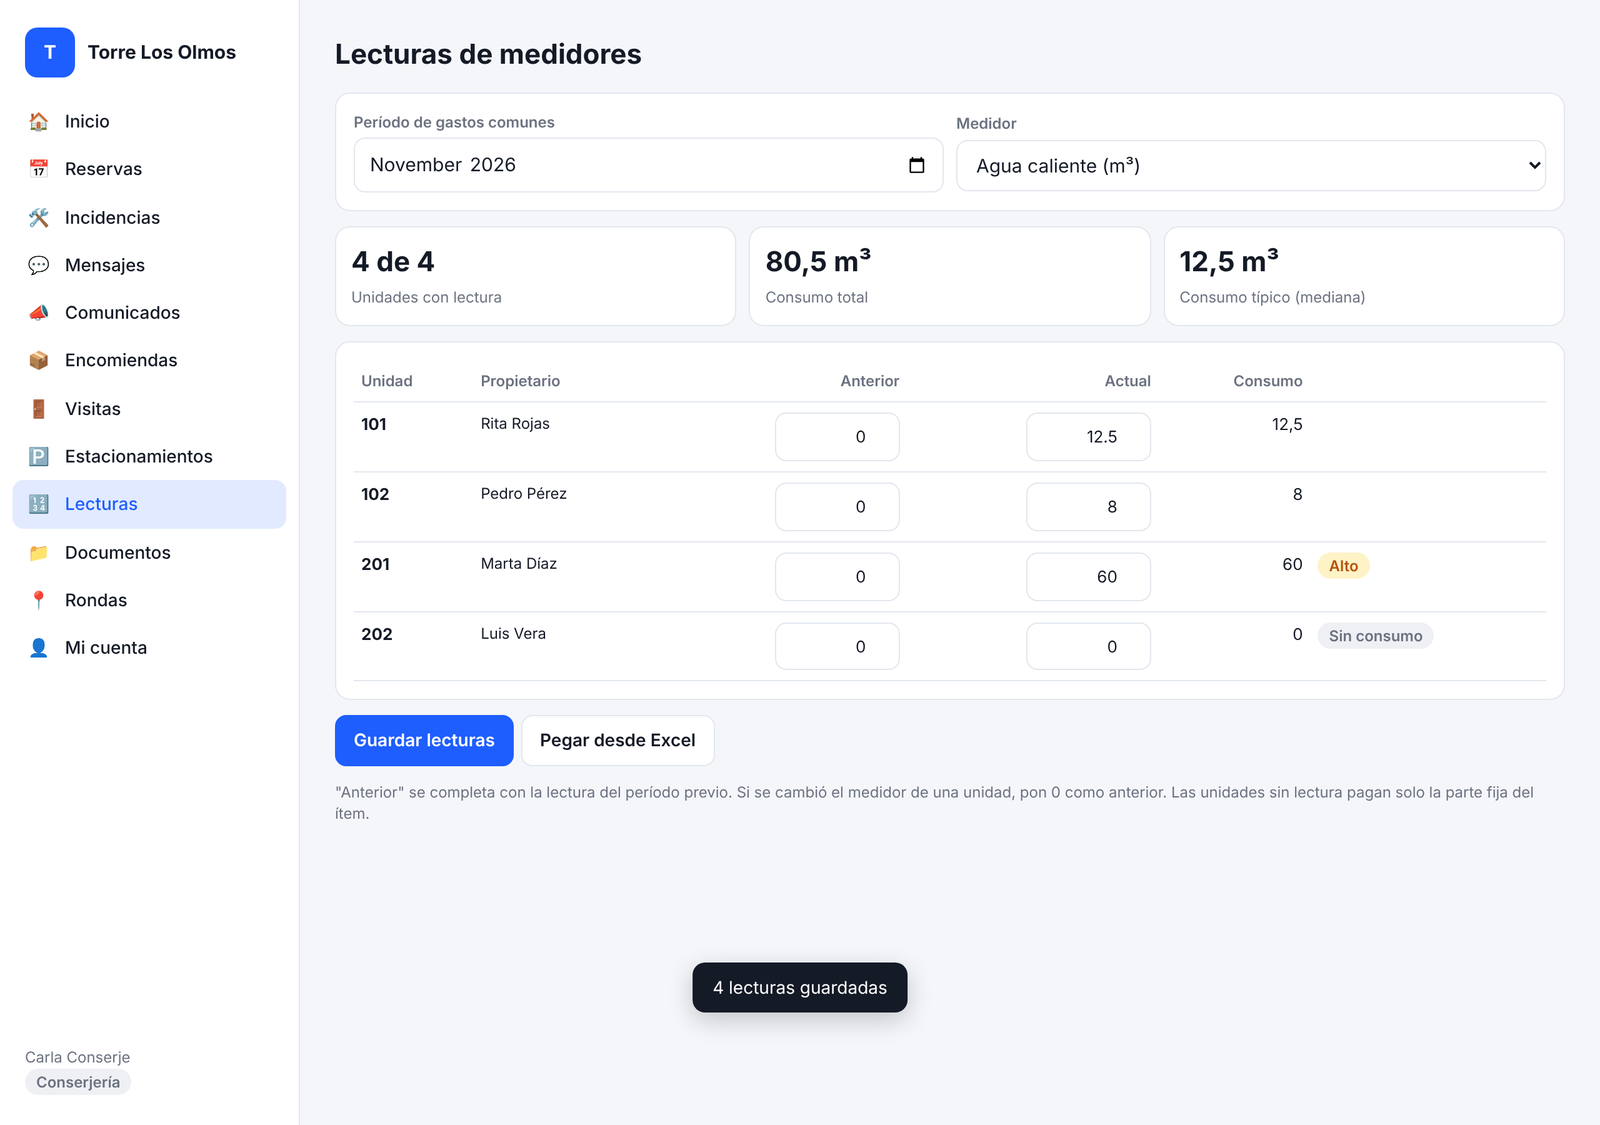
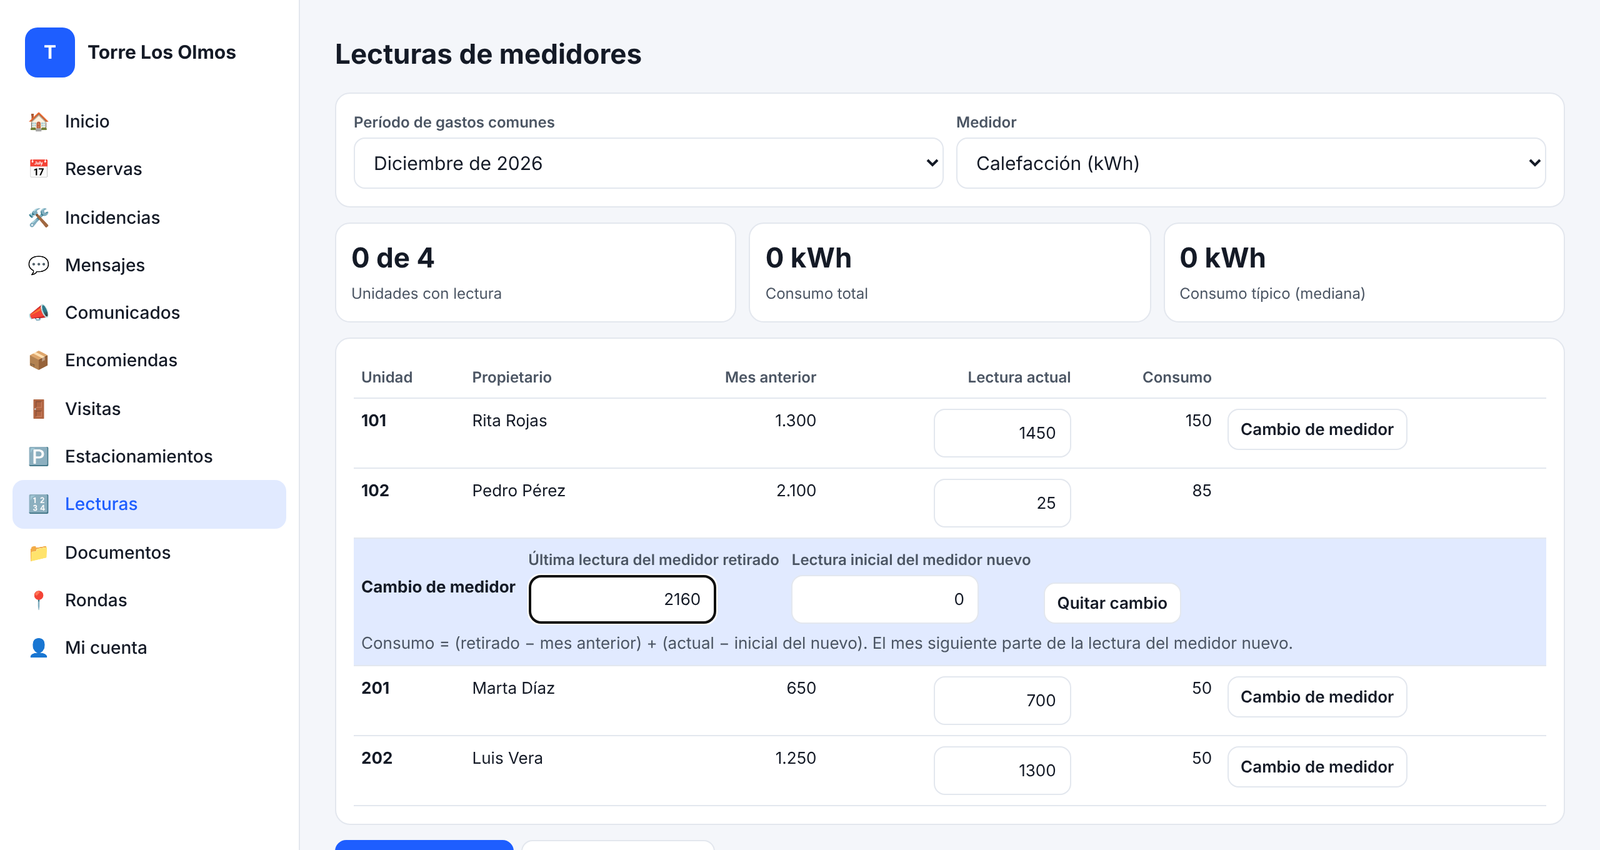
Lecturas: consumo como diferencia mensual, sin negativos, y cambio de medidor
- La lectura anterior es siempre la del mes pasado (solo la primera de una
  unidad se ingresa) y una corrección se propaga al mes siguiente.
- El consumo nunca puede ser negativo (validado en la app y la base de datos).
- Cambio de medidor: consumo = (última del retirado − mes anterior) +
  (actual − inicial del nuevo); el mes siguiente parte del medidor nuevo.

Claude-Session: https://claude.ai/code/session_01P8vX2KPJ2HNxDZ4mnc3X5k

diff --git a/web/app.js b/web/app.js
@@ -583,24 +583,46 @@ VIEWS.lecturas = function(){
     if(!mds.length){ $('#lcSel').innerHTML=`<div class="empty">${isAdmin()?'Primero define qué medidores individuales hay en el edificio (agua caliente, calefacción, gas…).':'La administración aún no configura los medidores.'}</div>`; $('#lcBody').innerHTML=''; return false; }
     if(!mds.some(x=>x.id===med)) med=mds[0].id;
     $('#lcSel').innerHTML=`<div class="row wrap"><label class="f grow" style="margin:0"><span>Período de gastos comunes</span><select id="lcPer">${opcionesMes(per)}</select></label><label class="f grow" style="margin:0"><span>Medidor</span><select id="lcMed">${mds.map(x=>`<option value="${esc(x.id)}" ${x.id===med?'selected':''}>${esc(x.nombre)} (${esc(x.unidad)})</option>`).join('')}</select></label></div>`; return true; };
+  // Consumo de una fila: diferencia con el mes anterior o, si se cambió el medidor, la suma de los dos tramos
+  const consumoDe=x=>x.cambio?{c:(x.fr-x.ant)+(x.act-x.ini), malo:x.fr<x.ant?'la última lectura del medidor retirado es menor que la del mes anterior':x.act<x.ini?'la lectura actual es menor que la inicial del medidor nuevo':''}
+    :{c:x.act-x.ant, malo:x.act<x.ant?'la lectura actual es menor que la del mes anterior (¿se cambió el medidor?)':''};
+  const leerFila=tr=>{ const d=tr.dataset.d, cb=$(`#lcTab tr[data-cd="${CSS.escape(d)}"]`), v=n=>$(`[name=${n}]`,tr)?.value.trim()??'';
+    return {d, ant:prev[d]!==undefined?prev[d]:leerDec(v('ant')), hayAct:v('act')!=='', act:leerDec(v('act')), cambio:!!cb, fr:cb?leerDec($('[name=fr]',cb).value):0, hayFr:cb?$('[name=fr]',cb).value.trim()!=='':false, ini:cb?leerDec($('[name=ini]',cb).value):0}; };
+  const filaCambio=(d,r={},ant=0)=>`<tr class="lcCb" data-cd="${esc(d)}"><td colspan="6" style="background:var(--p2)"><div class="row wrap" style="gap:10px;align-items:flex-end">
+      <b class="small" style="align-self:center">Cambio de medidor</b>
+      <label class="f" style="margin:0"><span>Última lectura del medidor retirado</span><input type="text" inputmode="decimal" data-dec name="fr" value="${r.final_retirado!=null?aDec(r.final_retirado):''}" placeholder="≥ ${esc(numCL(ant,3))}" style="width:150px;text-align:right"></label>
+      <label class="f" style="margin:0"><span>Lectura inicial del medidor nuevo</span><input type="text" inputmode="decimal" data-dec name="ini" value="${aDec(r.inicial_nuevo||0)}" style="width:150px;text-align:right"></label>
+      <button type="button" class="btn sec sm" data-sincambio="${esc(d)}">Quitar cambio</button></div>
+      <div class="small muted" style="margin-top:6px">Consumo = (retirado − mes anterior) + (actual − inicial del nuevo). El mes siguiente parte de la lectura del medidor nuevo.</div></td></tr>`;
   const draw=()=>{ const el=$('#lcBody'); if(!el) return; const md=medidores().find(x=>x.id===med); if(!md) return;
     const us=Object.keys(S.unidades).sort(porNum), R={}; filas.forEach(f=>R[f.depto]=f);
-    const cons=us.map(d=>R[d]?Number(R[d].actual)-Number(R[d].anterior):null).filter(x=>x!=null).sort((a,b)=>a-b), med50=cons.length?cons[Math.floor(cons.length/2)]:0, tot=cons.reduce((a,b)=>a+b,0);
-    const ed=puede&&!pub;
+    const cons=us.map(d=>R[d]?Number(R[d].consumo):null).filter(x=>x!=null).sort((a,b)=>a-b), med50=cons.length?cons[Math.floor(cons.length/2)]:0, tot=cons.reduce((a,b)=>a+b,0);
+    const ed=puede&&!pub, primera=us.some(d=>prev[d]===undefined&&!R[d]);
     el.innerHTML=`<div class="kpi"><div class="k"><b>${filas.length} de ${us.length}</b><span>Unidades con lectura</span></div><div class="k"><b>${numCL(tot,3)} ${esc(md.unidad)}</b><span>Consumo total</span></div><div class="k"><b>${numCL(med50,3)} ${esc(md.unidad)}</b><span>Consumo típico (mediana)</span></div></div>
     ${pub?`<div class="note" style="margin-top:10px">El período ${esc(fmtMonth(per))} ya está publicado: sus lecturas no se pueden cambiar. Para corregir, la administración debe despublicarlo.</div>`:''}
-    <div class="card" style="overflow:auto;margin-top:12px"><table id="lcTab"><thead><tr><th>Unidad</th><th>Propietario</th><th class="num">Anterior</th><th class="num">Actual</th><th class="num">Consumo</th><th></th></tr></thead><tbody>${us.map(d=>{ const r=R[d], ant=r?Number(r.anterior):(prev[d]??0), c=r?Number(r.actual)-Number(r.anterior):null;
-      const alerta=c!=null&&med50>0&&c>3*med50?'<span class="pill wa">Alto</span>':c===0?'<span class="pill mu">Sin consumo</span>':'';
-      return `<tr data-d="${esc(d)}"><td><b>${esc(d)}</b></td><td class="small">${esc(S.unidades[d]?.prop||'')}</td><td class="num">${ed?`<input type="text" inputmode="decimal" data-dec name="ant" value="${aDec(ant)}" style="width:110px;text-align:right">`:numCL(ant,3)}</td><td class="num">${ed?`<input type="text" inputmode="decimal" data-dec name="act" value="${r?aDec(r.actual):''}" placeholder="—" style="width:110px;text-align:right">`:(r?numCL(r.actual,3):'—')}</td><td class="num" data-c>${c==null?'—':numCL(c,3)}</td><td>${alerta}</td></tr>`; }).join('')}</tbody></table></div>
-    ${ed?`<div class="row wrap" style="margin-top:10px;gap:6px"><button class="btn" id="lcGuardar">Guardar lecturas</button><button class="btn sec" id="lcPegar">Pegar desde Excel</button></div><p class="small muted">"Anterior" se completa con la lectura del período previo. Si se cambió el medidor de una unidad, pon 0 como anterior. Las unidades sin lectura pagan solo la parte fija del ítem.</p>`:''}`; };
+    <div class="card" style="overflow:auto;margin-top:12px"><table id="lcTab"><thead><tr><th>Unidad</th><th>Propietario</th><th class="num">Mes anterior</th><th class="num">Lectura actual</th><th class="num">Consumo</th><th></th></tr></thead><tbody>${us.map(d=>{ const r=R[d], tiene=prev[d]!==undefined, ant=tiene?prev[d]:(r?Number(r.anterior):0), c=r?Number(r.consumo):null;
+      const alerta=(r?.cambio?`<span class="pill in" title="Retirado: ${esc(numCL(r.final_retirado,3))} · nuevo desde ${esc(numCL(r.inicial_nuevo,3))}">Medidor cambiado</span> `:'')+(c!=null&&med50>0&&c>3*med50?'<span class="pill wa">Alto</span>':c===0?'<span class="pill mu">Sin consumo</span>':'');
+      const celAnt=tiene||!ed?numCL(ant,3):`<input type="text" inputmode="decimal" data-dec name="ant" value="${aDec(ant)}" title="Primera lectura de esta unidad: el número que marcaba el medidor el mes anterior" style="width:110px;text-align:right">`;
+      return `<tr data-d="${esc(d)}"><td><b>${esc(d)}</b></td><td class="small">${esc(S.unidades[d]?.prop||'')}</td><td class="num">${celAnt}${!tiene&&ed?'<div class="small muted">primera lectura</div>':''}</td><td class="num">${ed?`<input type="text" inputmode="decimal" data-dec name="act" value="${r?aDec(r.actual):''}" placeholder="—" style="width:110px;text-align:right">`:(r?numCL(r.actual,3):'—')}</td><td class="num" data-c>${c==null?'—':numCL(c,3)}</td>
+        <td style="white-space:nowrap">${alerta}${ed&&!r?.cambio?` <button type="button" class="btn sec sm" data-concambio="${esc(d)}">Cambio de medidor</button>`:''}</td></tr>${ed&&r?.cambio?filaCambio(d,r,ant):''}`; }).join('')}</tbody></table></div>
+    ${ed?`<div class="row wrap" style="margin-top:10px;gap:6px"><button class="btn" id="lcGuardar">Guardar lecturas</button><button class="btn sec" id="lcPegar">Pegar desde Excel</button></div><p class="small muted">Cada mes se anota el número que marca el medidor; el consumo es la diferencia con el mes anterior y nunca puede ser negativo. "Mes anterior" sale solo de la lectura del período previo${primera?'; solo la primera lectura de una unidad se ingresa a mano':''}. Si se cambió el medidor de una unidad, usa "Cambio de medidor" e indica la última lectura del retirado y la inicial del nuevo. Las unidades sin lectura pagan solo la parte fija del ítem.</p>`:''}`; };
+  const recalcFila=d=>{ const tr=$(`#lcTab tr[data-d="${CSS.escape(d)}"]`); if(!tr) return; const x=leerFila(tr), cel=$('[data-c]',tr);
+    if(!x.hayAct||(x.cambio&&!x.hayFr)){ cel.textContent='—'; cel.style.color=''; cel.title=''; return; }
+    const {c,malo}=consumoDe(x); cel.textContent=numCL(c,3); cel.style.color=malo?'var(--er)':''; cel.title=malo; };
+
   const cargar=async()=>{ if(!cfg()) return; const [f,p,g]=await Promise.all([q(T('lecturas').select('*').eq('periodo',per).eq('medidor',med)), q(T('lecturas').select('depto,periodo,actual').eq('medidor',med).lt('periodo',per).order('periodo',{ascending:true})), q(T('gastos').select('publicado').eq('periodo',per)).catch(()=>[])]);
     filas=f; prev={}; p.forEach(x=>prev[x.depto]=Number(x.actual)); pub=!!g[0]?.publicado; draw(); };
   const w=watch(['lecturas','gastos','edificios'], async()=>true, ()=>{ if(!$('.modal')&&!document.activeElement?.closest?.('#lcTab')) cargar(); }, {silent:true});
   $('#lcSel').addEventListener('change',e=>{ if(e.target.id==='lcPer') per=e.target.value||monthStr(); if(e.target.id==='lcMed') med=e.target.value; cargar(); });
-  $('#lcBody').addEventListener('input',e=>{ const tr=e.target.closest('tr[data-d]'); if(!tr) return; const a=leerDec($('[name=ant]',tr).value), b=$('[name=act]',tr).value.trim(); $('[data-c]',tr).textContent=b===''?'—':numCL(leerDec(b)-a,3); });
+  $('#lcBody').addEventListener('input',e=>{ const tr=e.target.closest('tr[data-d],tr[data-cd]'); if(tr) recalcFila(tr.dataset.d||tr.dataset.cd); });
   $('#lcBody').addEventListener('click', async e=>{
-    if(e.target.id==='lcGuardar'){ const b=e.target, rows=$$('#lcTab tr[data-d]').filter(tr=>$('[name=act]',tr).value.trim()!=='').map(tr=>({periodo:per, medidor:med, depto:tr.dataset.d, anterior:leerDec($('[name=ant]',tr).value), actual:leerDec($('[name=act]',tr).value)}));
-      const malas=rows.filter(r=>r.actual<r.anterior); if(malas.length){ toast('La lectura actual es menor que la anterior en: '+malas.map(r=>r.depto).join(', ')); return; }
+    const cc=e.target.closest('[data-concambio]'), sc=e.target.closest('[data-sincambio]');
+    if(cc){ const d=cc.dataset.concambio, tr=cc.closest('tr'); cc.remove(); tr.insertAdjacentHTML('afterend', filaCambio(d,{},prev[d]??leerDec($('[name=ant]',tr)?.value))); $(`#lcTab tr[data-cd="${CSS.escape(d)}"] [name=fr]`)?.focus(); recalcFila(d); return; }
+    if(sc){ const d=sc.dataset.sincambio; sc.closest('tr').remove(); const tr=$(`#lcTab tr[data-d="${CSS.escape(d)}"]`); tr?.lastElementChild.insertAdjacentHTML('beforeend',` <button type="button" class="btn sec sm" data-concambio="${esc(d)}">Cambio de medidor</button>`); recalcFila(d); return; }
+    if(e.target.id==='lcGuardar'){ const b=e.target, xs=$$('#lcTab tr[data-d]').map(leerFila).filter(x=>x.hayAct);
+      const sinFr=xs.filter(x=>x.cambio&&!x.hayFr); if(sinFr.length){ toast('Falta la última lectura del medidor retirado en: '+sinFr.map(x=>x.d).join(', ')); return; }
+      const malas=xs.filter(x=>consumoDe(x).malo); if(malas.length){ toast('Consumo negativo en '+malas.map(x=>x.d).join(', ')+': '+consumoDe(malas[0]).malo); return; }
+      const rows=xs.map(x=>({periodo:per, medidor:med, depto:x.d, anterior:x.ant, actual:x.act, cambio:x.cambio, final_retirado:x.cambio?x.fr:null, inicial_nuevo:x.cambio?x.ini:0}));
       if(!rows.length){ toast('No hay lecturas para guardar'); return; } busy(b,true);
       try{ await q(T('lecturas').upsert(rows)); toast(rows.length+' lecturas guardadas'); await cargar(); }catch(err){ toast('Error: '+errMsg(err)); busy(b,false); } }
     if(e.target.id==='lcPegar'){ const t=await askText('Pega dos columnas: unidad y lectura actual (una unidad por línea, separadas por tabulación, punto y coma o espacio)'); if(!t) return; let n=0, no=[];

diff --git a/HANDOFF.md b/HANDOFF.md
@@ -24,7 +24,7 @@ App web para la comunidad de un edificio: residentes, conserjería, comité, adm
 - **Instalador de Windows** (`instalador/`): NSIS, se construye en Linux con `construir.sh` e incluye Node.js y cloudflared para Windows (sumas verificadas) y las dependencias. Su primera página (`PaginaDonde`) pregunta si va en este computador o en la nube; con "nube" abre la guía de Supabase y sale sin instalar (en modo silencioso `/S` no pregunta e instala local). Instala por usuario sin permisos de administrador; programa en `%LOCALAPPDATA%\Programs\Mi Edificio`, datos en `%LOCALAPPDATA%\MiEdificio\datos`. Los accesos directos ejecutan `.vbs` que llaman a `local/lanzar.mjs` sin ventana. El servidor se detiene con un archivo bandera (`detener`) porque en Windows no hay SIGTERM, y avisa su cierre real borrando `servidor.pid`. El workflow `Release` lo adjunta a cada versión.
 - **Sin correo**: en local no hay verificación ni recuperación por correo; la administración restablece contraseñas (`/api/auth/restablecer`).
 - **Reparto de gastos comunes**: `privado.repartir(e, periodo)` (detrás de `recalcular_prorrateo`, y llamado por el trigger de `cargos`). Cada ítem de `gastos.items` lleva `prorrateo` (`alicuota` por defecto, `iguales`, `consumo` con `medidor` y `fijo` %, `unidades` con `deptos`) y opcional `fondo`. Calcula exacto, redondea con mayor resto por ítem para que cuadre al peso, y guarda `gasto_unidades.detalle` = `[{i, monto, consumo?}]` + cargos `[{c, tipo, descripcion, monto}]`. Un período sin ítems reparte `total` por alícuota (compatibilidad). La app arma el desglose con `desgloseUnidad()`; los períodos antiguos (detalle vacío) caen al cálculo por alícuota.
-- **Lecturas** (`lecturas`, PK período+medidor+depto; tipos en `edificios.medidores`): `lecturas_antes()` completa `anterior`, valida y bloquea cambios si el período está publicado. Publicar con un ítem según consumo sin lecturas falla, y la app revierte a borrador.
+- **Lecturas** (`lecturas`, PK período+medidor+depto; tipos en `edificios.medidores`): `lecturas_antes()` fuerza `anterior` = lectura `actual` del período previo (solo la primera de una unidad viene del usuario), valida que nada sea negativo y bloquea cambios si el período está publicado. `consumo` es columna generada: `actual − anterior`, o con `cambio` = `(final_retirado − anterior) + (actual − inicial_nuevo)`; el reparto usa esa columna. `lecturas_despues()` propaga una corrección a la `anterior` del período siguiente (si no está publicado). Publicar con un ítem según consumo sin lecturas falla, y la app revierte a borrador.
 - **Fondos** (`fondos`, `fondo_movimientos`): el trigger `gastos_fondos` → `privado.sync_aportes()` rehace los aportes del período al publicar/despublicar (marcados con `periodo`). `usar_fondo()` anota el uso y opcionalmente el egreso en `caja_movimientos`, en una transacción. Saldos con `saldos_fondos()`.
 - **Cargos** (`cargos`): se suman al cobro del período en `repartir`. `cargos_antes()` impide agregar/subir en períodos publicados y exige motivo para rebajar o anular; no se borran. `privado.tg_cargo_reserva` crea el arriendo al aprobarse una reserva con costo y lo anula al cancelarla. `privado.periodo_abierto()` da el primer período sin publicar.
 - **Votaciones de asamblea** (`encuestas.tipo = 'asamblea'`): mismo voto por unidad, pero ponderado por alícuota y nominal vía `votos_asamblea()`, con la misma regla de visibilidad que los resultados. El trigger `encuestas_antes` impide cambiar el tipo después de publicar (un sondeo secreto no puede volverse nominal).

diff --git a/README.md b/README.md
@@ -204,7 +204,7 @@ Cada período tiene sus ítems (remuneraciones, agua, calefacción…) y **cada 
 
 Cada ítem se redondea al peso y la diferencia de redondeo se asigna a las unidades con mayor fracción: **la suma de las unidades cuadra exactamente con el total**. El cobro de cada unidad guarda su desglose, que el residente ve con sus consumos y descarga en su aviso de cobro (PDF o Excel); el Excel de la administración trae el prorrateo ítem por ítem.
 
-**Lecturas de medidores.** En el módulo **Lecturas**, la administración define qué medidores tiene cada unidad y conserjería (o la administración) ingresa, por período y medidor, la lectura actual de cada unidad; la anterior se completa con la del período previo. También se pueden **pegar desde Excel** (unidad y lectura). La app marca consumos en cero o muy por sobre lo típico, para revisar errores de lectura. Al guardar un período con ítems según consumo, avisa cuántas unidades tienen lectura; **no deja publicar un ítem según consumo sin lecturas**, y una vez publicado el período sus lecturas ya no se pueden cambiar (para corregir, se despublica). Una unidad sin lectura paga solo la parte fija.
+**Lecturas de medidores.** En el módulo **Lecturas**, la administración define qué medidores tiene cada unidad y conserjería (o la administración) ingresa cada mes, por medidor, **el número que marca el medidor** de cada unidad. El consumo es la diferencia con la lectura del mes anterior, que la app toma sola (solo la primera lectura de una unidad se ingresa a mano), y **nunca puede ser negativo**: una lectura menor que la del mes pasado no se acepta. Si se corrige una lectura, el mes siguiente se actualiza solo. **Cambio de medidor**: se marca en la fila de la unidad y se indican la última lectura del medidor retirado y la inicial del nuevo (normalmente 0); el consumo del mes es (retirado − mes anterior) + (actual − inicial del nuevo), y el mes siguiente parte de la lectura del medidor nuevo. También se pueden **pegar desde Excel** (unidad y lectura). La app marca consumos en cero o muy por sobre lo típico, para revisar errores de lectura. Al guardar un período con ítems según consumo, avisa cuántas unidades tienen lectura; **no deja publicar un ítem según consumo sin lecturas**, y una vez publicado el período sus lecturas ya no se pueden cambiar (para corregir, se despublica). Una unidad sin lectura paga solo la parte fija.
 
 **Fondos.** En Finanzas → Fondos se crean el **fondo común de reserva** (la Ley de Copropiedad Inmobiliaria exige formarlo; el porcentaje lo fija el reglamento dentro del mínimo legal, confírmalo) y otros, como uno de mantención. Cada fondo tiene un aporte sugerido en % de los gastos del período y su saldo al empezar a usar la app. Al crear un período se agrega el ítem de cada fondo y **"Calcular aportes a fondos"** calcula su monto. Al publicar el período, el aporte se anota solo en el fondo (y se quita si se despublica). Para **usar un fondo** se registra en qué y cuánto, y si se quiere también el egreso en el flujo de caja; no se puede usar más que el saldo. Los ajustes (intereses del banco, diferencias) se anotan aparte. La comunidad ve los saldos.
 

diff --git a/CHANGELOG.md b/CHANGELOG.md
@@ -3,7 +3,7 @@
 ## Sin publicar
 
 - **Reparto por ítem**: cada ítem del gasto común se reparte por alícuota, en partes iguales, según consumo (con un % fijo opcional por alícuota) o solo entre algunas unidades. La suma cuadra al peso.
-- **Lecturas de medidores**: agua caliente, calefacción, gas u otros. Conserjería y administración las ingresan o pegan desde Excel; la app avisa consumos raros y faltantes, y bloquea las lecturas de un período publicado.
+- **Lecturas de medidores**: agua caliente, calefacción, gas u otros. Cada mes se anota lo que marca el medidor y el consumo es la diferencia con el mes anterior (nunca negativo). Cambio de medidor: consumo = (última del retirado − mes anterior) + (actual − inicial del nuevo). Conserjería y administración las ingresan o pegan desde Excel; la app avisa consumos raros y faltantes, y bloquea las lecturas de un período publicado.
 - **Fondos**: fondo de reserva, mantención y otros, con aporte sugerido en %, aportes automáticos al publicar el período, usos (con egreso en el flujo de caja) y ajustes. La comunidad ve los saldos.
 - **Cargos individuales**: multas, arriendo de espacios comunes y otros cobros que se suman al gasto común de la unidad. El arriendo se carga solo al aprobarse una reserva con costo. Rebajas y condonaciones con motivo.
 - El residente ve el desglose de su cobro con sus consumos y cargos; el Excel del período trae el prorrateo ítem por ítem.
